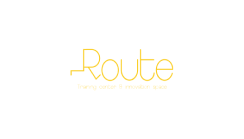
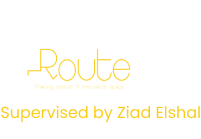
Full App.

Changed region(s): [[0.1194, 0.3453, 0.7164, 0.6619], [0.0, 0.7482, 0.7463, 0.8921], [0.7761, 0.7482, 1.0, 0.8633]]

diff --git a/web/index.html b/web/index.html
@@ -110,6 +110,13 @@
     </script>
 </head>
 <body>
+<picture id="splash-branding">
+    <source media="(prefers-color-scheme: light)"
+            srcset="splash/img/branding-1x.png 1x, splash/img/branding-2x.png 2x, splash/img/branding-3x.png 3x, splash/img/branding-4x.png 4x">
+    <source media="(prefers-color-scheme: dark)"
+            srcset="splash/img/branding-dark-1x.png 1x, splash/img/branding-dark-2x.png 2x, splash/img/branding-dark-3x.png 3x, splash/img/branding-dark-4x.png 4x">
+    <img alt="" aria-hidden="true" class="bottom" src="splash/img/branding-1x.png">
+</picture>
 <picture id="splash">
     <source media="(prefers-color-scheme: light)"
             srcset="splash/img/light-1x.png 1x, splash/img/light-2x.png 2x, splash/img/light-3x.png 3x, splash/img/light-4x.png 4x">
@@ -117,6 +124,7 @@
             srcset="splash/img/dark-1x.png 1x, splash/img/dark-2x.png 2x, splash/img/dark-3x.png 3x, splash/img/dark-4x.png 4x">
     <img alt="" aria-hidden="true" class="center" src="splash/img/light-1x.png">
 </picture>
+
 
 
 <script async="" src="flutter_bootstrap.js"></script>
